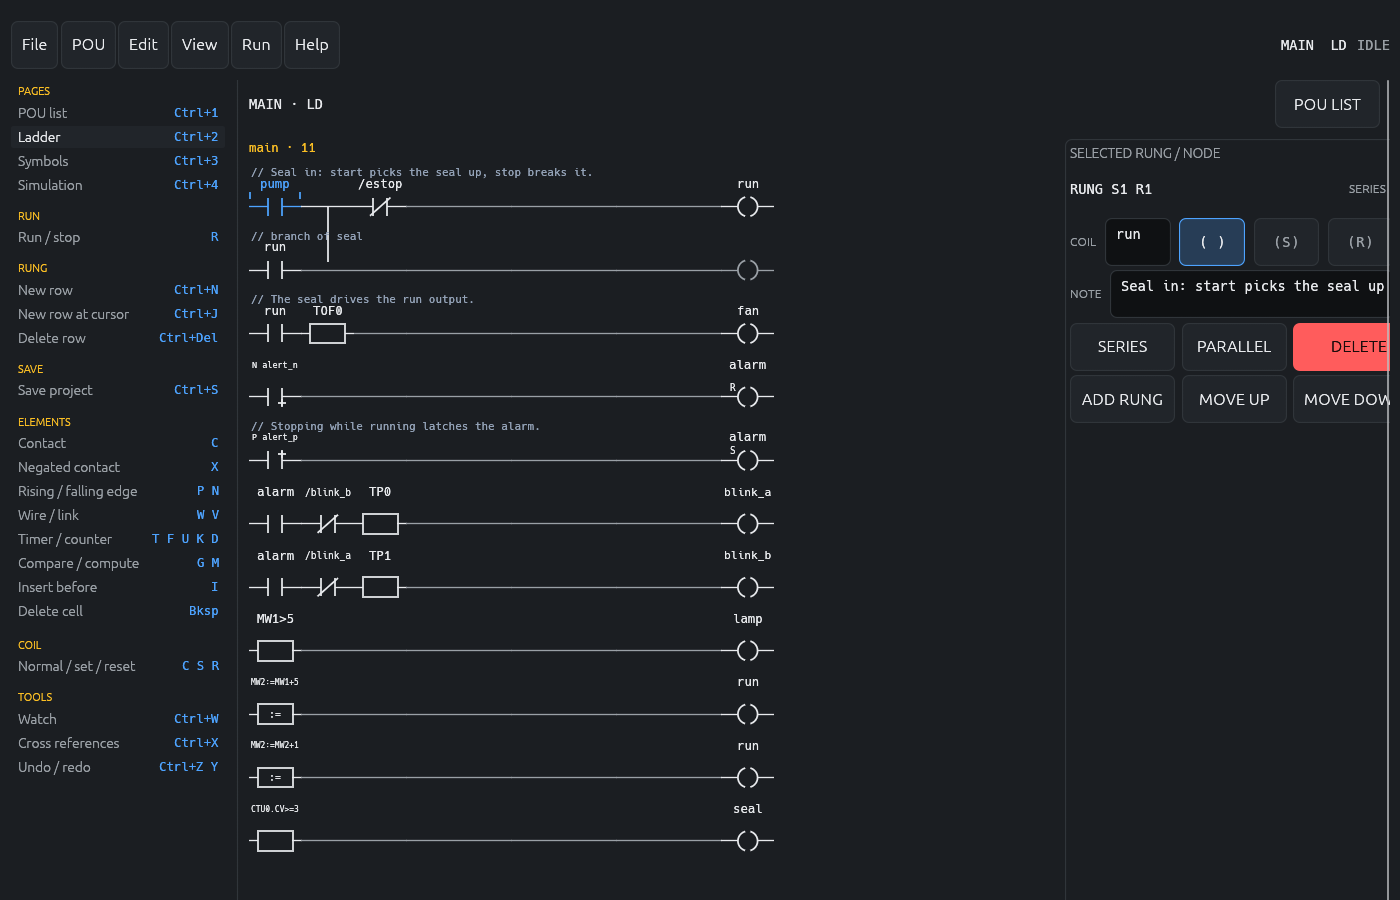
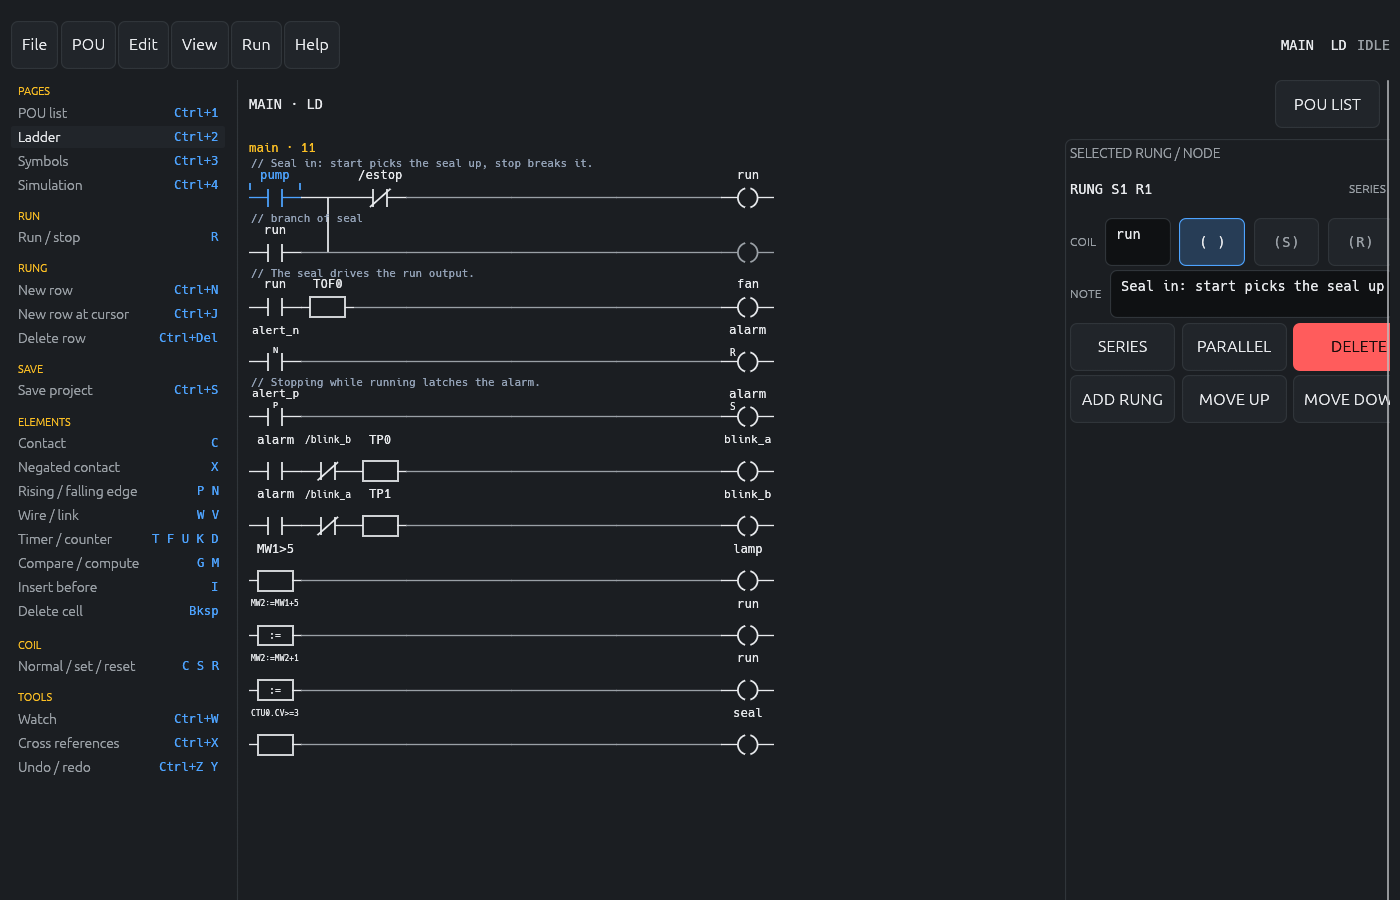
fix(plc): the ladder stacks its rungs, and an edge draws P or N not an arrow
The link stopped above the branch row's conductor because the rung loop inherited
egui's vertical item spacing while `grid_rung` and the link's drop assume one strip
per row. `ladder_body` now zeroes `item_spacing.y` through `zero_rung_spacing`, which
returns the value so the caller cannot silently keep the default. The link's drop
lands on the next conductor.

The edge contact drew an arrowhead against the right bar, which at this size read as
a stray plus sign. ZX writes the letter between the bars: `P` for a rising edge and
`N` for a falling one, and the operand label above is the plain variable again.

Regressions measure the real layout, not just the constants: two consecutive rungs
advance exactly CELL_HEIGHT in an egui pass, and `zero_rung_spacing` really returns
zero.

diff --git a/crates/linc-ui/src/screens/plc_grid.rs b/crates/linc-ui/src/screens/plc_grid.rs
@@ -1696,20 +1696,14 @@ fn draw_cell_symbol(painter: &egui::Painter, rect: egui::Rect, symbol: CellSymbo
                 );
             }
             if let CellSymbol::Edge(rising) = symbol {
-                let (tip, tail) = if rising {
-                    (egui::pos2(cx + bar, y - 9.0), egui::pos2(cx + bar, y - 2.0))
-                } else {
-                    (egui::pos2(cx + bar, y + 9.0), egui::pos2(cx + bar, y + 2.0))
-                };
-                painter.line_segment([tail, tip], line);
-                let wing = 3.5;
-                let sign = if rising { 1.0 } else { -1.0 };
-                painter.line_segment(
-                    [
-                        egui::pos2(tip.x - wing, tip.y + wing * sign),
-                        egui::pos2(tip.x + wing, tip.y + wing * sign),
-                    ],
-                    line,
+                // ZX writes the letter between the bars; an arrow over the bar read
+                // as a stray plus sign at this size.
+                painter.text(
+                    egui::pos2(cx, y - 11.0),
+                    Align2::CENTER_CENTER,
+                    if rising { "P" } else { "N" },
+                    FontId::monospace(8.0),
+                    color,
                 );
             }
         }
@@ -1850,10 +1844,7 @@ pub fn grid_cell_label(plc: &PlcUi, cell: &Cell) -> String {
                 name
             }
         }
-        Cell::Edge { var, rising } => {
-            let name = plc.operand_label(var);
-            format!("{}{name}", if *rising { "P " } else { "N " })
-        }
+        Cell::Edge { var, .. } => plc.operand_label(var),
         Cell::Block { instance, .. } => plc.operand_label(instance),
         other => cell_label(other),
     }
@@ -2034,5 +2025,66 @@ mod label_clearance_tests {
     fn the_link_pitch_is_one_strip() {
         assert_eq!(ROW_STRIDE, CELL_HEIGHT + ROW_GAP);
         assert_eq!(ROW_GAP, 0.0);
+    }
+}
+
+#[cfg(test)]
+mod rung_pitch_tests {
+    use super::*;
+
+    fn pass_with<T>(mut body: impl FnMut(&mut Ui) -> T) -> T {
+        let ctx = egui::Context::default();
+        let mut out: Option<T> = None;
+        let mut output = ctx.run_pass(egui::RawInput::default(), |ctx| {
+            egui::Area::new(egui::Id::new("rung-pitch"))
+                .fixed_pos(egui::pos2(0.0, 0.0))
+                .show(ctx, |ui| {
+                    out = Some(body(ui));
+                });
+        });
+        let _ = &ctx;
+        output.textures_delta.clear();
+        out.expect("body ran")
+    }
+
+    /// The ladder must not inherit egui's vertical item spacing: the link's drop is
+    /// one strip long, so two rungs have to be exactly `CELL_HEIGHT` apart in the
+    /// real layout, not only in the constants.
+    #[test]
+    fn consecutive_rungs_are_one_strip_apart_in_the_layout() {
+        let mut plc = PlcUi::default();
+        let rung = Rung {
+            cells: vec![Cell::Wire],
+            comment: String::new(),
+            logic: linc_plc_core::model::Logic::Const { value: true },
+            coil: linc_plc_core::model::Coil::new("", linc_plc_core::model::CoilKind::Normal),
+        };
+        let mut actions = Vec::new();
+        let (advance, spacing) = pass_with(|ui| {
+            crate::screens::plc::zero_rung_spacing(ui);
+            let before = ui.cursor().top();
+            grid_rung(&plc, ui, 0, 0, &rung, &mut actions);
+            let step = ui.cursor().top() - before;
+            grid_rung(&plc, ui, 0, 1, &rung, &mut actions);
+            let two = ui.cursor().top() - before;
+            (step, two - step)
+        });
+        let _ = &mut plc;
+        assert!(
+            (advance - CELL_HEIGHT).abs() < 0.5,
+            "one rung advances {advance}, expected {CELL_HEIGHT}"
+        );
+        assert!(
+            (spacing - CELL_HEIGHT).abs() < 0.5,
+            "the second rung starts one strip lower, got {spacing}"
+        );
+    }
+
+    /// Zeroing the spacing is what the ladder does, and it returns the value so the
+    /// caller cannot silently keep egui's default.
+    #[test]
+    fn the_ladder_zeroes_the_vertical_spacing() {
+        let spacing = pass_with(|ui| crate::screens::plc::zero_rung_spacing(ui));
+        assert_eq!(spacing, 0.0);
     }
 }

diff --git a/crates/linc-ui/src/screens/plc.rs b/crates/linc-ui/src/screens/plc.rs
@@ -4502,6 +4502,13 @@ fn comment_row(
     }
 }
 
+/// Make consecutive rungs exactly one strip apart. Returns the spacing it set, so a
+/// caller (or a test) can assert the ladder is not inheriting egui's default.
+pub fn zero_rung_spacing(ui: &mut Ui) -> f32 {
+    ui.spacing_mut().item_spacing.y = 0.0;
+    ui.spacing().item_spacing.y
+}
+
 fn ladder_body(
     plc: &mut PlcUi,
     sections: &[linc_plc_core::model::Section],
@@ -4522,6 +4529,10 @@ fn ladder_body(
         .max_height((height - 6.0).max(80.0))
         .auto_shrink([false, false])
         .show(ui, |ui| {
+            // The rungs stack themselves: `grid_rung` is exactly CELL_HEIGHT tall
+            // and the link's drop assumes that pitch, so egui's default vertical
+            // item spacing must not add to it.
+            zero_rung_spacing(ui);
             for (section_index, section) in sections.iter().enumerate() {
                 ui.add_space(2.0);
                 ui.label(
